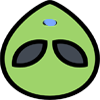
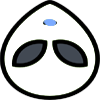
asd

diff --git a/ShootEmUp 1.0/EnemyTypes.cs b/ShootEmUp 1.0/EnemyTypes.cs
@@ -54,7 +54,7 @@ namespace ShootEmUp_1._0
             myTexture = aTexture;
             myRectangle = new Rectangle(0, 0, myTexture.Width * (int)myScale, myTexture.Height * (int)myScale);
             myBulletSpawn = new Vector2((myRectangle.Width - GameState.myEnemyBullet.Width) * 0.5f, 0);
-            myColor = Color.Red;
+            myColor = Color.Yellow;
 
             int tempRng = myRng.Next(1, 3);
             myDir = new Vector2(tempRng, -1);
@@ -92,6 +92,7 @@ namespace ShootEmUp_1._0
             myBulletTexture = GameState.myEnemyBullet;
             myRectangle = new Rectangle(0, 0, myTexture.Width * (int)myScale, myTexture.Height * (int)myScale);
             myBulletSpawn = new Vector2((myTexture.Width *(int)myScale - GameState.myEnemyBullet.Width) * 0.5f, 0);
+            myColor = Color.Lerp(Color.Blue, Color.Red, 0.5f);
 
             int tempRng = myRng.Next(1, 3);
 
@@ -173,7 +174,7 @@ namespace ShootEmUp_1._0
             myRectangle = new Rectangle(0, 0, myTexture.Width * (int)myScale, myTexture.Height * (int)myScale);
             myBulletSpawn = new Vector2((myTexture.Width - GameState.myEnemyBullet.Width) * 0.5f, 0);
             myBulletColor = Color.Cyan;
-            myColor = Color.Orange;
+            myColor = Color.Lime;
 
             int tempRng = myRng.Next(1, 3);
             myDir = new Vector2(tempRng, -1);
@@ -184,7 +185,7 @@ namespace ShootEmUp_1._0
             Animation(myTexturesList);
             StayAlive();
             Collision();
-            TypeTwoMove(myStartPos, 1.5f, 50);
+            TypeTwoMove(myStartPos, 1.5f, 100);
 
             myPosition += (myDir * mySpeed);
             myRectangle.Location = myPosition.ToPoint();
@@ -233,7 +234,7 @@ namespace ShootEmUp_1._0
             myRectangle = new Rectangle(0, 0, myTexture.Width * (int)myScale, myTexture.Height * (int)myScale);
             myBulletSpawn = new Vector2((myTexture.Width - myBulletTexture.Width) * 0.5f, 0);
             myBulletColor = Color.Cyan;
-            myColor = Color.Brown;
+            myColor = Color.HotPink;
             mySmartStartAS = myRng.Next(1, 3);
             myChargeRate = mySmartStartAS;
             myTimer = (myChargeTextures.Count) * 0.5f;

diff --git a/ShootEmUp 1.0/GameState.cs b/ShootEmUp 1.0/GameState.cs
@@ -260,7 +260,7 @@ namespace ShootEmUp_1._0
 
                 if (myScore < 50)
                 {
-                    tempType = myRng.Next(1,3);
+                    tempType = myRng.Next(1,5);
                 }
                 else if(myScore >= 50 && myScore < 100)
                 {
@@ -281,19 +281,8 @@ namespace ShootEmUp_1._0
                 }
                 if (tempType == 3)
                 {
-                    Random tempRng = new Random();
-                    int tempNumer = tempRng.Next(1, 3);
-
-                    if (tempNumer == 1)
-                    {
-                        Vector2 tempPos = new Vector2(0 + myEnemyTexture.Width, myGraphics.PreferredBackBufferHeight + 20);
-                        myGameObjects.Add(new EnemySmart(myEnemyTexture, tempPos));
-                    }
-                    if (tempNumer == 2)
-                    {
-                        Vector2 tempPos = new Vector2(myGraphics.PreferredBackBufferWidth - myEnemyTexture.Width, myGraphics.PreferredBackBufferHeight + 20);
-                        myGameObjects.Add(new EnemySmart(myEnemyTexture, tempPos));
-                    }
+                    Vector2 tempPos = new Vector2(myRng.Next(0, myGraphics.PreferredBackBufferWidth - myEnemyTexture.Width), myGraphics.PreferredBackBufferHeight + 20);
+                    myGameObjects.Add(new EnemySmart(myEnemyTexture, tempPos));
                 }
                 if (tempType == 4)
                 {
